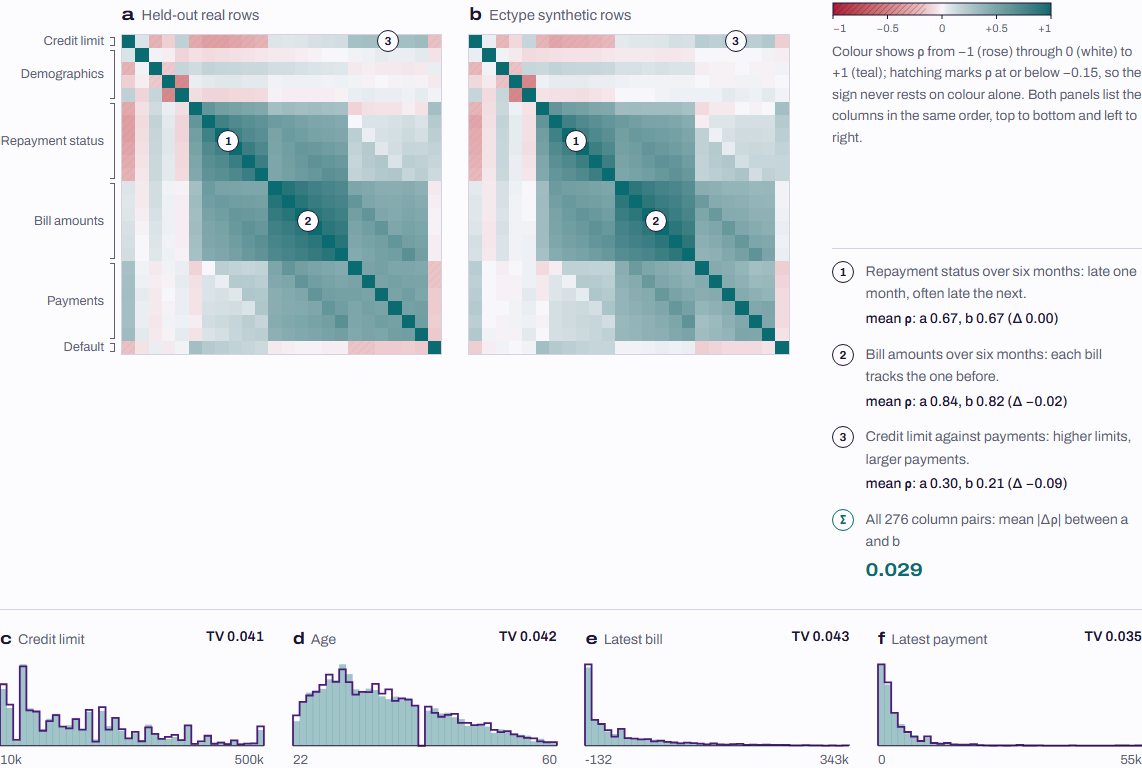
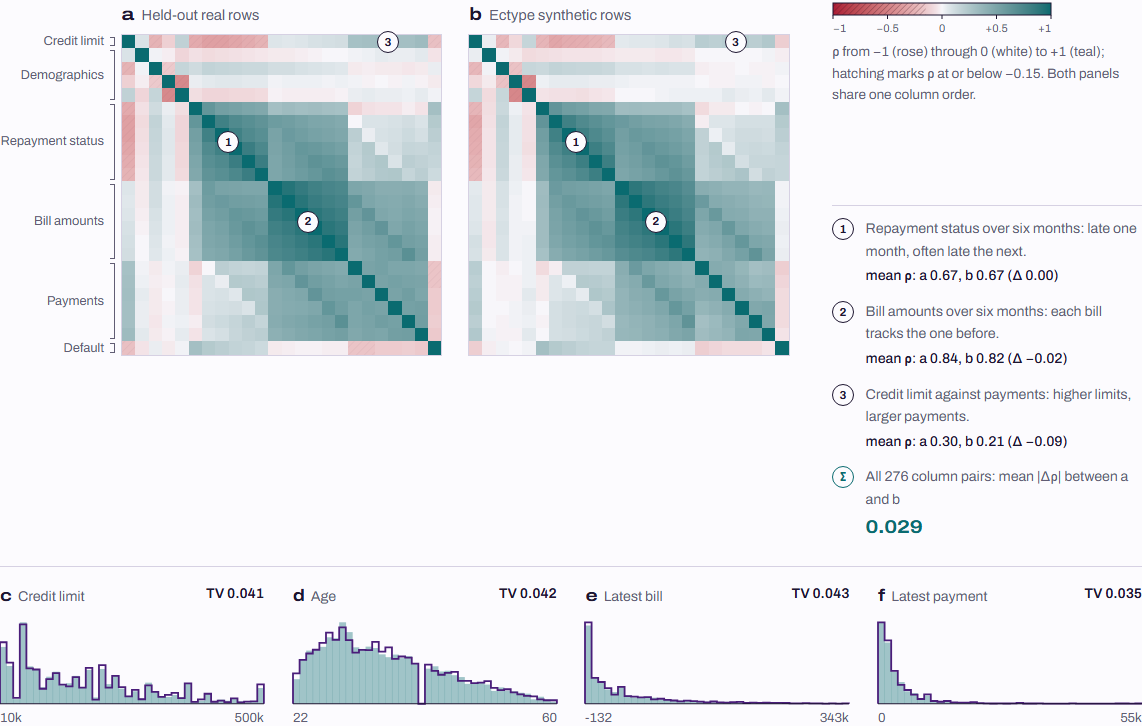
Ectype 0.2.0: head-to-head numbers, version, format and test count
Classifier AUC 0.671 (mean rank 2.1 of 10), worst-case membership AUC
0.505, version 0.2.0, fingerprint format 0.5.0, 3,383 automated tests.
Copied from ectype-site site-cloud at 674dc71.

Claude-Session: https://claude.ai/code/session_01EH4Mb7QJmMZKzVEezaBS9z

diff --git a/index.html b/index.html
@@ -261,15 +261,15 @@ RESULT: <span class="pass">PASSED</span></span></span></code></pre>
     <h2 id="res-title">Closer to real data than every deep-learning synthesizer we tested</h2>
     <div>
       <p><span data-r="compete.datasets" data-f="int">9</span> public datasets, <span data-r="compete.seeds" data-f="int">5</span> seeds, every method at its defaults, every score on held-out real rows. Ectype’s quality score: <span data-r="compete.derived.by_id.ectype.quality" data-f="mean3">0.975</span>. Real data against itself: <span data-r="compete.derived.by_id.real-train.quality" data-f="mean3">0.981</span>.</p>
-      <p class="measured">Measured <time datetime="2026-11-27" data-r="compete.report_date" data-f="date">27 November 2026</time> on ectype <span data-r="compete.engine_version">0.1.0</span>.</p>
+      <p class="measured">Measured <time datetime="2026-11-28" data-r="compete.report_date" data-f="date">28 November 2026</time> on ectype <span data-r="compete.engine_version">0.2.0</span>.</p>
     </div>
   </div>
 
   <dl class="h2h-stats">
-    <div><dt>of <span data-r="compete.derived.ranked_count" data-f="int">10</span> methods at passing for real data (mean rank <span data-r="compete.derived.by_id.ectype.mean_rank_classifier" data-f="mean1">2.6</span>)</dt><dd><span data-r="compete.derived.default_rank" data-f="ordinal">2nd</span></dd></div>
+    <div><dt>of <span data-r="compete.derived.ranked_count" data-f="int">10</span> methods at passing for real data (mean rank <span data-r="compete.derived.by_id.ectype.mean_rank_classifier" data-f="mean1">2.1</span>)</dt><dd><span data-r="compete.derived.default_rank" data-f="ordinal">2nd</span></dd></div>
     <div><dt>median fit on a CPU. Deep models: a GPU and <span data-r="compete.derived.deep_fit_minutes_range" data-f="range1">2.3 to 6.5</span> minutes.</dt><dd><span data-r="compete.derived.by_id.ectype.fit_seconds_median" data-f="mean0">10</span><span class="unit"> s</span></dd></div>
     <div><dt>of the real-data model score kept (median)</dt><dd><span data-r="compete.derived.by_id.ectype.utility_median" data-f="pct1">97.8%</span></dd></div>
-    <div><dt>worst membership-inference AUC on any dataset; 0.5 is chance</dt><dd><span data-r="compete.derived.by_id.ectype.membership_auc_worst_dataset" data-f="mean3">0.508</span></dd></div>
+    <div><dt>worst membership-inference AUC on any dataset; 0.5 is chance</dt><dd><span data-r="compete.derived.by_id.ectype.membership_auc_worst_dataset" data-f="mean3">0.505</span></dd></div>
   </dl>
 
   <figure class="h2h-fig" aria-labelledby="fig2-cap">
@@ -278,11 +278,11 @@ RESULT: <span class="pass">PASSED</span></span></span></code></pre>
 <!-- bake:compete-chart -->
 <div class="h2h-axis"><span>Method</span><div class="h2h-ticks"><span>0.5</span><span>0.6</span><span>0.7</span><span>0.8</span><span>0.9</span><span>1.0</span></div><span>AUC</span></div>
 <div class="h2h-row"><span class="h2h-name">CART (sequential trees)<small>CPU, median fit 2 s</small></span><svg class="h2h-bar" viewBox="0 0 100 10" preserveAspectRatio="none" focusable="false"><path class="h2h-grid" d="M20 0V10M40 0V10M60 0V10M80 0V10"/><rect class="h2h-fill" x="0" y="1" width="19.2" height="8"/></svg><span class="h2h-val">0.596</span></div>
-<div class="h2h-row is-chain"><span class="h2h-name">Ectype<small>CPU, median fit 10 s</small></span><svg class="h2h-bar" viewBox="0 0 100 10" preserveAspectRatio="none" focusable="false"><path class="h2h-grid" d="M20 0V10M40 0V10M60 0V10M80 0V10"/><rect class="h2h-fill" x="0" y="1" width="40.0" height="8"/></svg><span class="h2h-val">0.700</span></div>
+<div class="h2h-row is-chain"><span class="h2h-name">Ectype<small>CPU, median fit 10 s</small></span><svg class="h2h-bar" viewBox="0 0 100 10" preserveAspectRatio="none" focusable="false"><path class="h2h-grid" d="M20 0V10M40 0V10M60 0V10M80 0V10"/><rect class="h2h-fill" x="0" y="1" width="34.2" height="8"/></svg><span class="h2h-val">0.671</span></div>
 <div class="h2h-row"><span class="h2h-name">Synthcity TabDDPM (diffusion)<small>GPU, median fit 6.4 min</small></span><svg class="h2h-bar" viewBox="0 0 100 10" preserveAspectRatio="none" focusable="false"><path class="h2h-grid" d="M20 0V10M40 0V10M60 0V10M80 0V10"/><rect class="h2h-fill" x="0" y="1" width="48.8" height="8"/></svg><span class="h2h-val">0.744</span></div>
 <div class="h2h-row"><span class="h2h-name">MOSTLY AI SDK (deep autoregressive)<small>GPU, median fit 2.3 min</small></span><svg class="h2h-bar" viewBox="0 0 100 10" preserveAspectRatio="none" focusable="false"><path class="h2h-grid" d="M20 0V10M40 0V10M60 0V10M80 0V10"/><rect class="h2h-fill" x="0" y="1" width="58.0" height="8"/></svg><span class="h2h-val">0.790</span></div>
-<div class="h2h-row"><span class="h2h-name">Ectype, forest model<small>CPU, median fit 18 s</small></span><svg class="h2h-bar" viewBox="0 0 100 10" preserveAspectRatio="none" focusable="false"><path class="h2h-grid" d="M20 0V10M40 0V10M60 0V10M80 0V10"/><rect class="h2h-fill" x="0" y="1" width="69.6" height="8"/></svg><span class="h2h-val">0.848</span></div>
-<div class="h2h-row"><span class="h2h-name">Ectype, fast<small>CPU, median fit 9 s</small></span><svg class="h2h-bar" viewBox="0 0 100 10" preserveAspectRatio="none" focusable="false"><path class="h2h-grid" d="M20 0V10M40 0V10M60 0V10M80 0V10"/><rect class="h2h-fill" x="0" y="1" width="82.4" height="8"/></svg><span class="h2h-val">0.912</span></div>
+<div class="h2h-row"><span class="h2h-name">Ectype, forest model<small>CPU, median fit 17 s</small></span><svg class="h2h-bar" viewBox="0 0 100 10" preserveAspectRatio="none" focusable="false"><path class="h2h-grid" d="M20 0V10M40 0V10M60 0V10M80 0V10"/><rect class="h2h-fill" x="0" y="1" width="68.8" height="8"/></svg><span class="h2h-val">0.844</span></div>
+<div class="h2h-row"><span class="h2h-name">Ectype, fast<small>CPU, median fit 7 s</small></span><svg class="h2h-bar" viewBox="0 0 100 10" preserveAspectRatio="none" focusable="false"><path class="h2h-grid" d="M20 0V10M40 0V10M60 0V10M80 0V10"/><rect class="h2h-fill" x="0" y="1" width="80.6" height="8"/></svg><span class="h2h-val">0.903</span></div>
 <div class="h2h-row"><span class="h2h-name">ARF (adversarial random forest)<small>CPU, median fit 3.9 min</small></span><svg class="h2h-bar" viewBox="0 0 100 10" preserveAspectRatio="none" focusable="false"><path class="h2h-grid" d="M20 0V10M40 0V10M60 0V10M80 0V10"/><rect class="h2h-fill" x="0" y="1" width="88.2" height="8"/></svg><span class="h2h-val">0.941</span></div>
 <div class="h2h-row"><span class="h2h-name">SDV TVAE<small>GPU, median fit 2.9 min</small></span><svg class="h2h-bar" viewBox="0 0 100 10" preserveAspectRatio="none" focusable="false"><path class="h2h-grid" d="M20 0V10M40 0V10M60 0V10M80 0V10"/><rect class="h2h-fill" x="0" y="1" width="95.0" height="8"/></svg><span class="h2h-val">0.975</span></div>
 <div class="h2h-row"><span class="h2h-name">SDV CTGAN<small>GPU, median fit 6.5 min</small></span><svg class="h2h-bar" viewBox="0 0 100 10" preserveAspectRatio="none" focusable="false"><path class="h2h-grid" d="M20 0V10M40 0V10M60 0V10M80 0V10"/><rect class="h2h-fill" x="0" y="1" width="95.2" height="8"/></svg><span class="h2h-val">0.976</span></div>
@@ -300,7 +300,7 @@ RESULT: <span class="pass">PASSED</span></span></span></code></pre>
 
  <div class="results-rest">
   <div class="h2h-notes">
-    <p>First place, on all <span data-r="compete.derived.leader.wins" data-f="int">9</span> datasets, goes to sequential trees (CART), which sample each value from a real training row and have the highest worst-case membership AUC of any method tested: <span data-r="compete.derived.leader.membership_auc_worst_dataset" data-f="mean3">0.533</span>, against <span data-r="compete.derived.by_id.ectype.membership_auc_worst_dataset" data-f="mean3">0.508</span> for Ectype.</p>
+    <p>First place overall goes to sequential trees (CART), first on <span data-r="compete.derived.leader.wins" data-f="int">8</span> of the <span data-r="compete.datasets" data-f="int">9</span> datasets, with Ectype ahead on <span data-r="compete.derived.default_wins.names">California Housing</span>. CART samples each value from a real training row and has the highest worst-case membership AUC of any method tested: <span data-r="compete.derived.leader.membership_auc_worst_dataset" data-f="mean3">0.533</span>, against <span data-r="compete.derived.by_id.ectype.membership_auc_worst_dataset" data-f="mean3">0.505</span> for Ectype.</p>
     <p>Beyond the benchmark: <span data-r="robustness.tables" data-f="int">29</span> more public tables, <span data-r="robustness.rows_min" data-f="int">184</span> to <span data-r="robustness.rows_max" data-f="int">60,000</span> rows and up to <span data-r="robustness.columns_max" data-f="int">287</span> columns, with no failures.</p>
   </div>
 
@@ -313,18 +313,18 @@ RESULT: <span class="pass">PASSED</span></span></span></code></pre>
         <thead><tr><th scope="col">Method</th><th scope="col">Classifier AUC</th><th scope="col">Mean rank</th><th scope="col">Quality</th><th scope="col">Utility kept</th><th scope="col">Membership AUC, worst dataset</th><th scope="col">Median fit</th><th scope="col">Hardware</th></tr></thead>
         <tbody>
 <!-- bake:compete-table -->
-<tr><th scope="row">CART (sequential trees)</th><td>0.596</td><td>1.0</td><td>0.980</td><td>98.3%</td><td>0.533</td><td>2 s</td><td>CPU</td></tr>
-<tr class="is-chain"><th scope="row">Ectype</th><td>0.700</td><td>2.6</td><td>0.975</td><td>97.8%</td><td>0.508</td><td>10 s</td><td>CPU</td></tr>
-<tr><th scope="row">Synthcity TabDDPM (diffusion)</th><td>0.744</td><td>3.4</td><td>0.908</td><td>97.3%</td><td>0.505</td><td>6.4 min</td><td>GPU</td></tr>
-<tr><th scope="row">MOSTLY AI SDK (deep autoregressive)</th><td>0.790</td><td>3.7</td><td>0.966</td><td>96.3%</td><td>0.507</td><td>2.3 min</td><td>GPU</td></tr>
-<tr><th scope="row">Ectype, forest model</th><td>0.848</td><td>5.5</td><td>0.960</td><td>93.0%</td><td>0.505</td><td>18 s</td><td>CPU</td></tr>
-<tr><th scope="row">Ectype, fast</th><td>0.912</td><td>6.6</td><td>0.958</td><td>91.1%</td><td>0.503</td><td>9 s</td><td>CPU</td></tr>
+<tr><th scope="row">CART (sequential trees)</th><td>0.596</td><td>1.1</td><td>0.980</td><td>98.3%</td><td>0.533</td><td>2 s</td><td>CPU</td></tr>
+<tr class="is-chain"><th scope="row">Ectype</th><td>0.671</td><td>2.1</td><td>0.975</td><td>97.8%</td><td>0.505</td><td>10 s</td><td>CPU</td></tr>
+<tr><th scope="row">Synthcity TabDDPM (diffusion)</th><td>0.744</td><td>3.6</td><td>0.908</td><td>97.3%</td><td>0.505</td><td>6.4 min</td><td>GPU</td></tr>
+<tr><th scope="row">MOSTLY AI SDK (deep autoregressive)</th><td>0.790</td><td>3.9</td><td>0.966</td><td>96.3%</td><td>0.507</td><td>2.3 min</td><td>GPU</td></tr>
+<tr><th scope="row">Ectype, forest model</th><td>0.844</td><td>5.4</td><td>0.959</td><td>93.0%</td><td>0.503</td><td>17 s</td><td>CPU</td></tr>
+<tr><th scope="row">Ectype, fast</th><td>0.903</td><td>6.6</td><td>0.957</td><td>91.1%</td><td>0.503</td><td>7 s</td><td>CPU</td></tr>
 <tr><th scope="row">ARF (adversarial random forest)</th><td>0.941</td><td>6.8</td><td>0.922</td><td>97.0%</td><td>0.517</td><td>3.9 min</td><td>CPU</td></tr>
-<tr><th scope="row">SDV TVAE</th><td>0.975</td><td>8.0</td><td>0.896</td><td>89.9%</td><td>0.505</td><td>2.9 min</td><td>GPU</td></tr>
+<tr><th scope="row">SDV TVAE</th><td>0.975</td><td>8.1</td><td>0.896</td><td>89.9%</td><td>0.505</td><td>2.9 min</td><td>GPU</td></tr>
 <tr><th scope="row">SDV CTGAN</th><td>0.976</td><td>8.1</td><td>0.882</td><td>88.5%</td><td>0.505</td><td>6.5 min</td><td>GPU</td></tr>
 <tr><th scope="row">SDV Gaussian copula</th><td>0.994</td><td>9.3</td><td>0.869</td><td>86.8%</td><td>0.506</td><td>6 s</td><td>CPU</td></tr>
 <tr class="is-ref"><th scope="row">Real data (ceiling)</th><td>0.499</td><td>–</td><td>0.981</td><td>100.0%</td><td>0.749</td><td>–</td><td>–</td></tr>
-<tr class="is-ref"><th scope="row">Independent columns (baseline)</th><td>0.982</td><td>–</td><td>0.867</td><td>51.1%</td><td>0.505</td><td>8 s</td><td>CPU</td></tr>
+<tr class="is-ref"><th scope="row">Independent columns (baseline)</th><td>0.982</td><td>–</td><td>0.860</td><td>51.1%</td><td>0.505</td><td>7 s</td><td>CPU</td></tr>
 <!-- /bake:compete-table -->
         </tbody>
       </table>
@@ -375,7 +375,7 @@ RESULT: <span class="pass">PASSED</span></span></span></code></pre>
       <div class="hists" id="hists"></div>
     </div>
 
-    <noscript><img class="snapshot" src="img/fig2.png" width="1142" height="768" alt="Two 24 by 24 correlation matrices, real rows and Ectype rows, with nearly identical teal blocks for repayment status and bill amounts, and four matching histograms."></noscript>
+    <noscript><img class="snapshot" src="img/fig2.png" width="1142" height="726" alt="Two 24 by 24 correlation matrices, real rows and Ectype rows, with nearly identical teal blocks for repayment status and bill amounts, and four matching histograms."></noscript>
 
     <figcaption id="fig3-cap">
       <p class="status" data-status hidden></p>
@@ -574,7 +574,7 @@ RESULT: <span class="pass">PASSED</span></span></span></code></pre>
       <button class="pip pip-dark" type="button" data-copy="pip install ectype-data" aria-label="Copy the command pip install ectype-data">
         <code>pip install ectype-data</code><span class="pip-note" aria-hidden="true">copy</span>
       </button>
-      <p class="status-note">Version <span data-r="versions.ectype">0.1.0</span>, <span data-r="tests.qualifier">more than</span> <span data-r="tests.count" data-f="int">2,600</span> automated tests, fingerprint format <span data-r="versions.format">0.4.0</span>.</p>
+      <p class="status-note">Version <span data-r="versions.ectype">0.2.0</span>, <span data-r="tests.qualifier"></span> <span data-r="tests.count" data-f="int">3,383</span> automated tests, fingerprint format <span data-r="versions.format">0.5.0</span>.</p>
       <p class="quick-links"><a class="more" data-site="docs" href="https://github.com/EctypeHQ/ectype/blob/main/docs/guide/README.md">Read the guide</a> <a data-site="pypi" href="https://pypi.org/project/ectype-data/">Package on PyPI</a></p>
     </div>
     <div class="quick-code">
